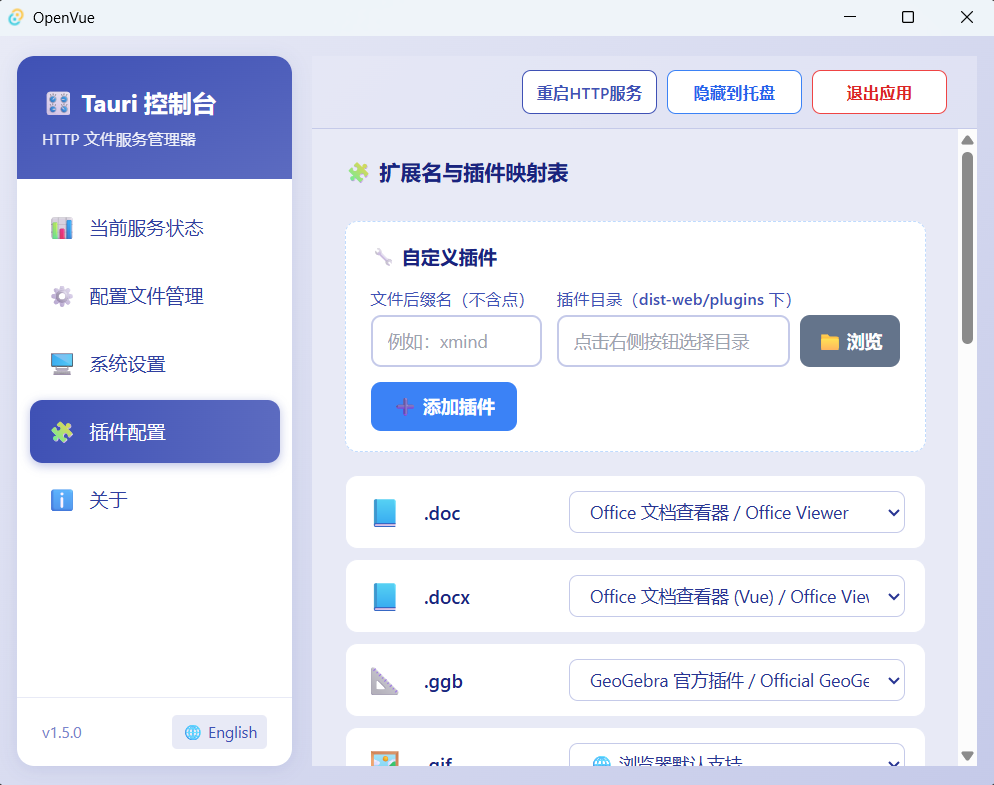
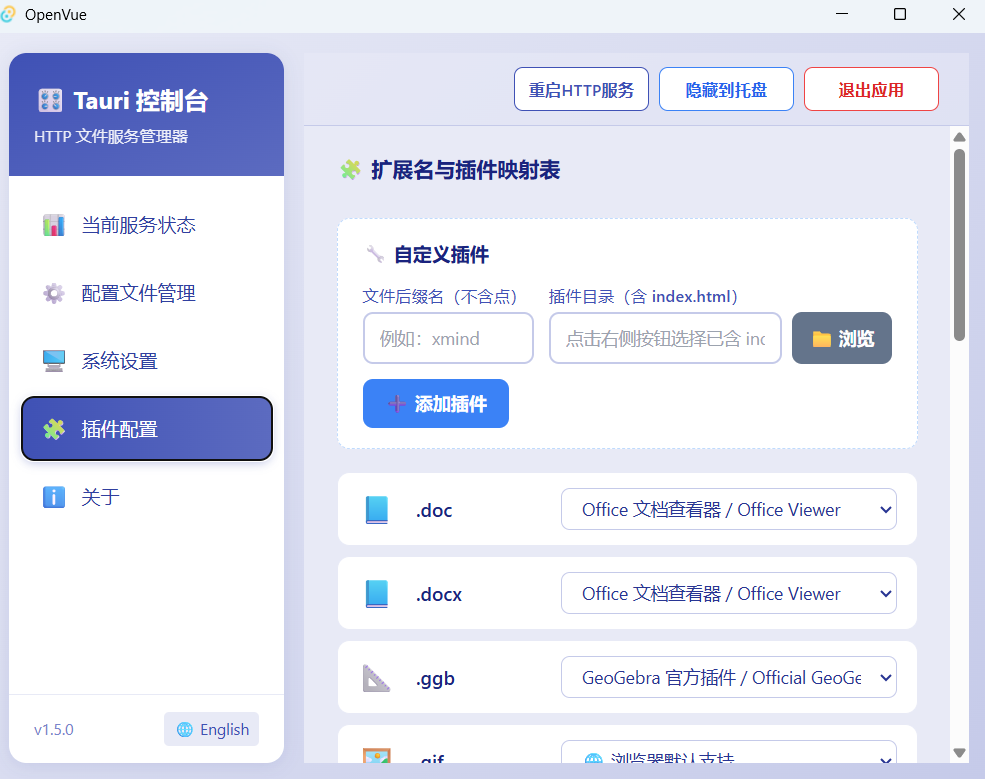
修改screenshot

diff --git a/src-tauri/src/commands.rs b/src-tauri/src/commands.rs
@@ -374,11 +374,13 @@ pub async fn choose_folder(
             std::env::current_dir().unwrap_or_else(|_| PathBuf::from(".")).join(&raw)
         };
         let exists = resolved.exists();
-        let canonical = resolved.canonicalize().unwrap_or_else(|_| resolved.clone());
+        // ⚠ Windows canonicalize 会返回 \\?\ UNC 前缀路径，dialog 的 set_directory 不认
+        let canonical_raw = resolved.canonicalize().unwrap_or_else(|_| resolved.clone());
+        let canonical = normalize_path_for_dialog(&canonical_raw);
         println!("📂 [choose_folder] title={}", dialog_title);
         println!("📂 [choose_folder] initial_dir 原始: {}", dir_str);
         println!("📂 [choose_folder] 解析后: {}", resolved.display());
-        println!("📂 [choose_folder] 存在: {} | canonical: {}", exists, canonical.display());
+        println!("📂 [choose_folder] 存在: {} | 规范化后: {}", exists, canonical.display());
         if exists {
             builder = builder.set_directory(&canonical);
             println!("📂 [choose_folder] ✅ 已设置初始目录");

diff --git a/src-tauri/src/router/mod.rs b/src-tauri/src/router/mod.rs
@@ -35,8 +35,6 @@ pub struct RouterState {
     pub config_public_folder: String,
     /// 插件配置
     pub plugins_config: PluginsConfig,
-    /// 用户自定义插件根目录（/pfolder 前缀 serve 此目录）
-    pub plugins_folder: PathBuf,
 }
 
 /// 创建完整的 HTTP 路由器（模块对外唯一入口）
@@ -55,7 +53,6 @@ pub fn create_router(
         app_version: version,
         config_port,
         plugins_config,
-        plugins_folder: plugins_folder.clone(),
     };
 
     let api_routes = register_api_routes(enable_upload);

diff --git a/src-tauri/src/plugins.rs b/src-tauri/src/plugins.rs
@@ -123,10 +123,6 @@ pub fn save_plugins_config(cfg: &PluginsConfig) -> Result<(), String> {
     save_plugins_config_to_path(cfg, &path)
 }
 
-/// 获取 dist-web/plugins 目录的绝对路径
-pub fn get_plugins_dir() -> Result<PathBuf, String> {
-    crate::paths::plugins_dir()
-}
 
 impl PluginsConfig {
     /// 激活指定 handler（只需设置 active_handler_id，null = 浏览器默认）

diff --git a/src-tauri/src/paths.rs b/src-tauri/src/paths.rs
@@ -188,8 +188,3 @@ pub fn resolve_plugins_dir(config_plugins_folder: Option<&std::path::Path>) -> R
         user_plugins_dir()
     }
 }
-
-/// 保留旧函数名以兼容（返回用户可写插件目录）
-pub fn plugins_dir() -> Result<PathBuf, String> {
-    user_plugins_dir()
-}
